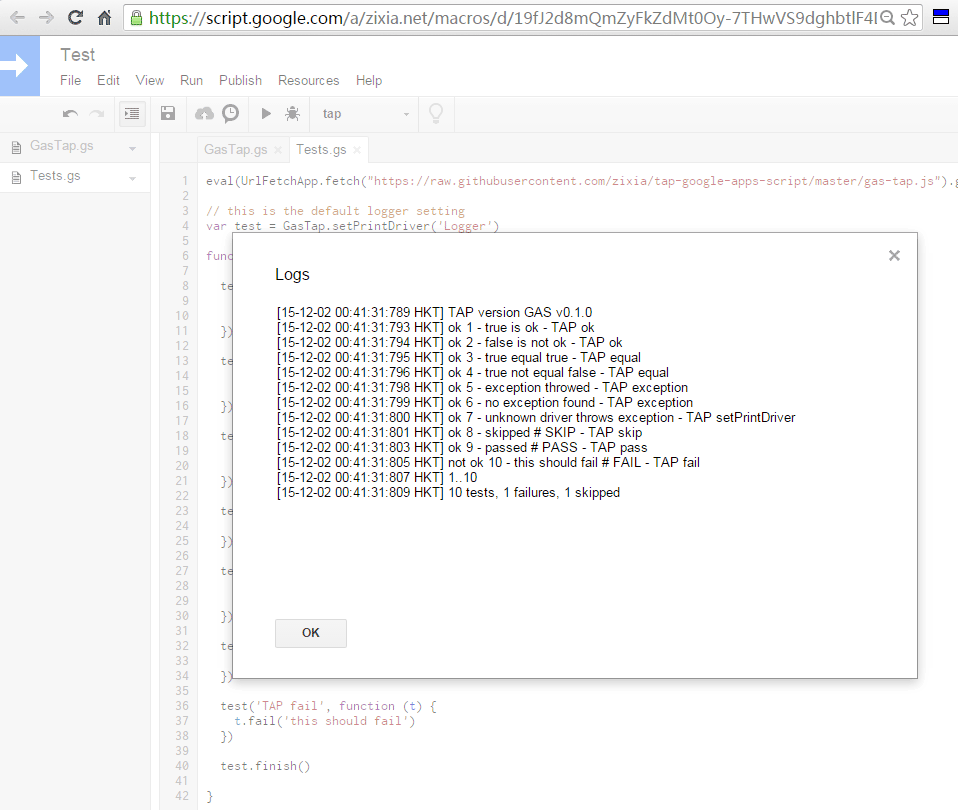
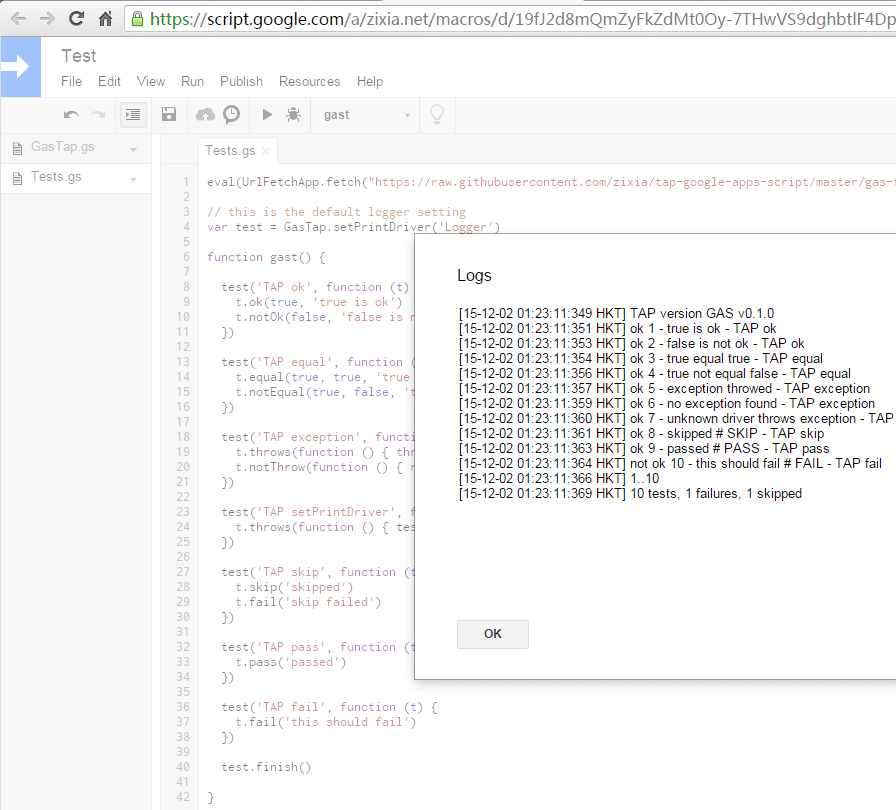
readme & snapshot

diff --git a/README.md b/README.md
@@ -1,7 +1,75 @@
-# tap-google-apps-script
-Test Anything Protocol(TAP) for Google Apps Script
+# GasT - Google Apps Script Testing System
 
+GasT is a TAP-compliant testing framework for Google Apps Script. It provides a simple way to verify that the GAS programs you write behave as expected.
+
+A GasT test file is a Javascript which defining test cases. Under the hood, each test case is just a function with a description.
+
+```javascript
+eval(UrlFetchApp.fetch("https://raw.githubusercontent.com/zixia/tap-google-apps-script/master/gas-tap.js").getContentText())
+var test = GasTap.setPrintDriver('Logger') 
+
+function gast() {
+  test('do calculation right', function (t) {    
+  	var i = 3 + 4
+    t.equal(i, 7, 'I can calc 3 + 4 = 7')
+  })
+
+  test('Spreadsheet exist', function (t) {
+	var ss = SpreadsheetApp.openById('1TBJpvlW3WWney4rk1yW5N9bAP8dOMkWxI97dOtco-fc')
+    t.ok(ss, 'I can open spreadsheet')
+  })
+
+  test.finish()
+```
+
+GasT is most useful when testing javascript running on Google Apps Script environment. if you are running out of GAS, there's other TAP testing framework as well, such as [TAPE - a tap-producing test harness for node and browsers](https://github.com/substack/tape).
+
+Test cases consist of Google Apps Scripts. 
+
+
+## Running tests
+
+
+### Screen Snapshoot
 ![Test Anything Protocol(TAP) for Google Apps Script](https://raw.githubusercontent.com/zixia/tap-google-apps-script/master/gas-tap.png)
 
+## Writing tests
 
-## 
+## Using GasT in Google Apps Script
+
+Install GasT is very easy: just copy/paste the following javascript code to your Code.gs file, then you are ready to use GasT.
+
+```javascript
+eval(UrlFetchApp.fetch("https://raw.githubusercontent.com/zixia/tap-google-apps-script/master/gas-tap.js").getContentText())
+var test = GasTap.setPrintDriver('Logger') 
+```
+
+To use GasT, we need a wraper test function(to run inside Script Editor). The following code is a start template, you can add more test inside the function gast().
+
+```javascript
+function gast() {
+  test('do calculation right', function (t) {    
+  	var i = 3 + 4
+    t.equal(i, 7, 'I can calc 3 + 4 = 7')
+  })
+
+  test.finish()
+```
+
+Note that you need to run keep `test.finish()` at the end of function, because it need to output the summary of all tests..
+
+
+## Support
+
+The GasT source code repository is hosted on GitHub. There you can file bugs on the issue tracker or submit tested pull requests for review. ( https://github.com/zixia/tap-google-apps-script/issues )
+
+For real-world examples from open-source projects using GasT, see Projects Using TasT on the wiki. ( https://github.com/zixia/tap-google-apps-script/wiki )
+
+
+## Version history
+
+### 0.1.0 (December 2, 2015)
+* Initial public release.
+
+-------------------------------------------
+© 2015 Zhuohuan LI. GasT is released under an MIT-style license; see LICENSE for details.
